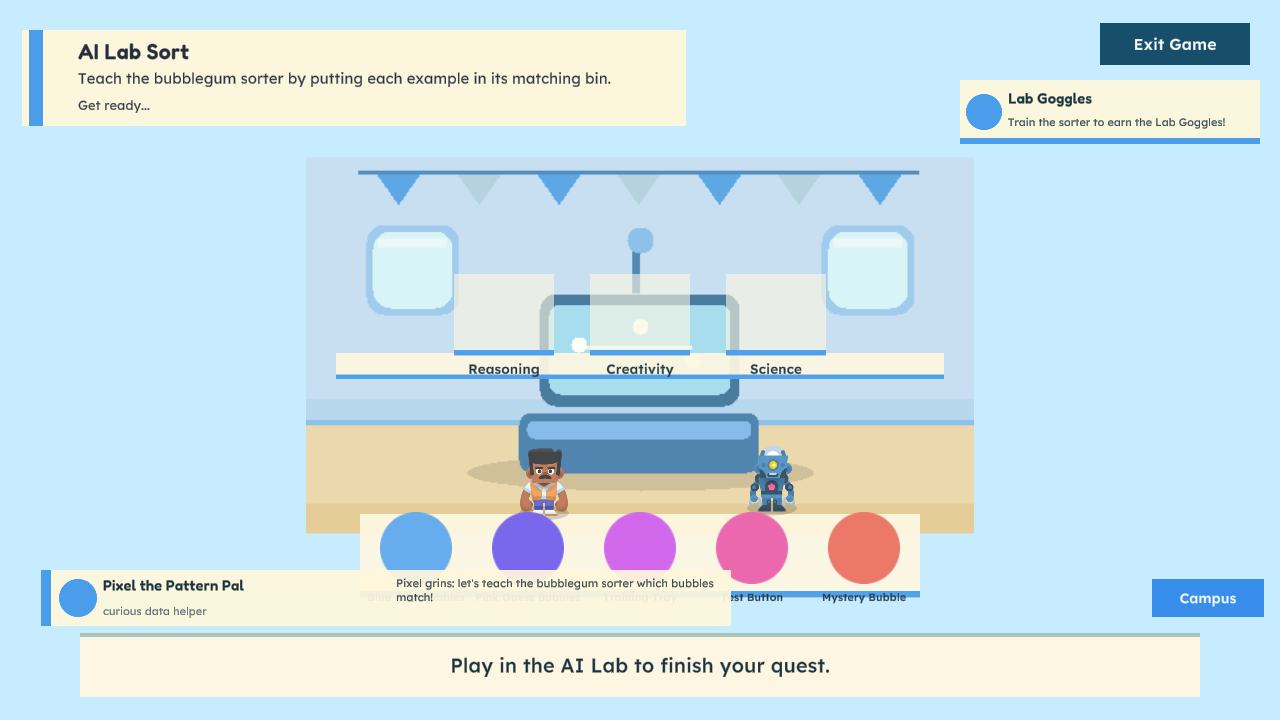
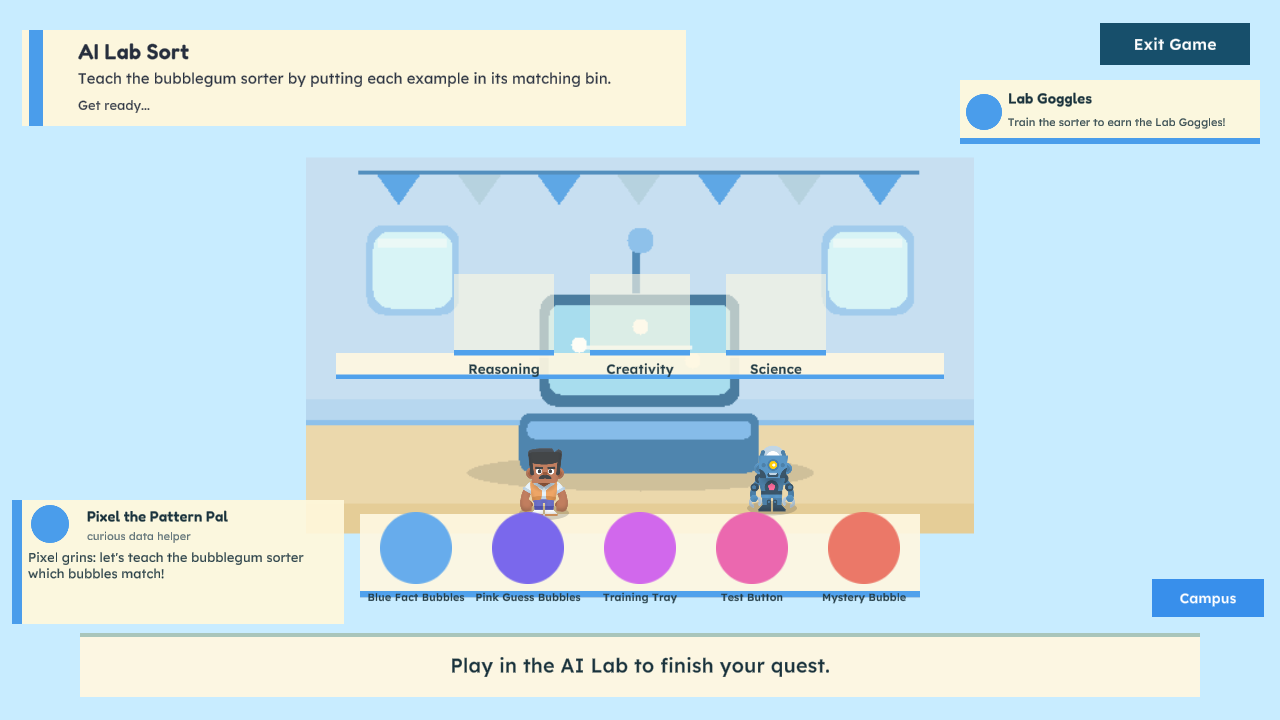
@ fix(stations): compact guide card (no tray-label overlap) + 6 new station QA captures
- StationGuideView: rework the party-station guide from a wide bottom bar
  (whose live line/reaction text reached screen-center and overlapped the
  world-space tray-object labels) into a compact bottom-left card with the
  line + reaction stacked left-aligned, kept left of the centered tray row.
- CareerQuestApp.ShowVisualQaState: add -cq-visual-state cases for the six
  remaining stations (vet, game-studio, weather, spaceport, newsroom,
  green-city) plus an accessory-fit seam (SeedAccessoryFitResults completes
  the party stations so the campus avatar wears the derived one-per-slot set).
- docs/qa: refresh the four converted station shots (overlap fixed), add the
  six new station shots, mark the overlap issue resolved, and document
  accessory fit as machine-verified (AvatarAccessoryLayerPlayModeTests).

Verified green after changes: EditMode 237/237, PlayMode 229/229.

@

Changed region(s): [[0.0, 0.6722, 0.5938, 0.8861]]

diff --git a/Assets/_CareerQuest/Scripts/UI/CareerQuestApp.cs b/Assets/_CareerQuest/Scripts/UI/CareerQuestApp.cs
@@ -500,6 +500,36 @@ namespace CareerQuest
                     BeginPlay();
                     ShowCommunityKitchen();
                     return true;
+                case "vet":
+                case "vet-clinic":
+                    BeginPlay();
+                    return ShowPartyStation(CareerQuestCatalog.VetClinicId);
+                case "game-studio":
+                    BeginPlay();
+                    return ShowPartyStation(CareerQuestCatalog.GameStudioId);
+                case "weather":
+                case "weather-lab":
+                    BeginPlay();
+                    return ShowPartyStation(CareerQuestCatalog.WeatherLabId);
+                case "spaceport":
+                    BeginPlay();
+                    return ShowPartyStation(CareerQuestCatalog.SpaceportId);
+                case "newsroom":
+                    BeginPlay();
+                    return ShowPartyStation(CareerQuestCatalog.NewsroomId);
+                case "green-city":
+                    BeginPlay();
+                    return ShowPartyStation(CareerQuestCatalog.GreenCityId);
+                case "accessory-fit":
+                    // Complete the party stations (their results carry the
+                    // station accessories AccessoryRewardConfig maps — unlike the
+                    // showcase core-room seed, which earns none) and stay on
+                    // campus: the campus player avatar is the accessory-bearing
+                    // AvatarRuntimeView (the mid-play station hero is a plain
+                    // figure), so it wears the derived one-per-slot set here.
+                    BeginPlay();
+                    SeedAccessoryFitResults(null);
+                    return true;
                 case "gallery":
                     BeginPlay();
                     ShowGallery();
@@ -1469,6 +1499,33 @@ namespace CareerQuest
                     result.TimeRemaining,
                     result.Accuracy,
                     result.Summary));
+            }
+        }
+
+        /// <summary>
+        /// QA-only seed for the accessory-fit visual state: completes the party
+        /// stations (pass a station id to skip one, or null to complete all), so
+        /// AccessoryResolver derives the one-per-slot set the campus avatar
+        /// renders. Mirrors the DemoDebugOverlay proof seam; session-only and
+        /// presentation-only (KTD8/KTD12).
+        /// </summary>
+        private void SeedAccessoryFitResults(string exceptStationId)
+        {
+            foreach (var stationId in CareerQuestCatalog.PartyStationIds)
+            {
+                if (stationId == exceptStationId)
+                {
+                    continue;
+                }
+
+                var definition = PartyStationDefinitions.GetById(stationId);
+                _session.RecordResult(PartyStationController.BuildResult(
+                    definition,
+                    definition.DefaultSeed,
+                    ResultSource.Solo,
+                    complete: true,
+                    wrongAttempts: 0,
+                    playElapsedSeconds: 12f));
             }
         }
 

diff --git a/Assets/_CareerQuest/Scripts/Activities/PartyStations/StationGuideView.cs b/Assets/_CareerQuest/Scripts/Activities/PartyStations/StationGuideView.cs
@@ -52,25 +52,32 @@ namespace CareerQuest
                 return null;
             }
 
+            // Compact bottom-left card: portrait/name/voice on top, the live
+            // line + reaction stacked left-aligned beneath. The old wide single
+            // row pushed the line/reaction text into screen-center, where it
+            // overlapped the world-space tray-object labels; keeping the whole
+            // card narrow and left of the centered tray row removes that overlap.
             var panel = UiBuilder.Panel(parent, PanelName, PaperColor);
-            UiBuilder.Place(panel, -254f, -238f, 690f, 56f);
-            UiBuilder.Shape(panel, "StationGuideStripe", accent, -340f, 0f, 10f, 56f);
-            UiBuilder.Circle(panel, "StationGuidePortrait", accent, -308f, 0f, 38f, 38f);
+            UiBuilder.Place(panel, -462f, -202f, 332f, 124f);
+            UiBuilder.Shape(panel, "StationGuideStripe", accent, -161f, 0f, 10f, 124f);
+            UiBuilder.Circle(panel, "StationGuidePortrait", accent, -128f, 38f, 38f, 38f);
 
             var name = UiBuilder.Text(panel, NameTextName, definition.GuideName, 15, TextAnchor.MiddleLeft, InkColor, TypeRole.Display, TypeWeight.SemiBold);
-            UiBuilder.Place(name.rectTransform, -158f, 13f, 250f, 22f);
+            UiBuilder.Place(name.rectTransform, 14f, 46f, 210f, 22f);
 
             var voice = UiBuilder.Text(panel, VoiceTextName, definition.GuideVoice, 11, TextAnchor.MiddleLeft, SoftInkColor);
-            UiBuilder.Place(voice.rectTransform, -158f, -13f, 250f, 18f);
+            UiBuilder.Place(voice.rectTransform, 14f, 26f, 210f, 16f);
 
-            var line = UiBuilder.Text(panel, LineTextName, seed.IntroLine, 14, TextAnchor.MiddleLeft, InkColor);
-            UiBuilder.Place(line.rectTransform, 175f, 8f, 330f, 28f);
+            var line = UiBuilder.Text(panel, LineTextName, seed.IntroLine, 13, TextAnchor.UpperLeft, InkColor);
+            UiBuilder.Place(line.rectTransform, 0f, -10f, 300f, 46f);
+            line.textWrappingMode = TextWrappingModes.Normal;
             line.enableAutoSizing = true;
             line.fontSizeMin = 10;
-            line.fontSizeMax = 14;
+            line.fontSizeMax = 13;
 
-            var reaction = UiBuilder.Text(panel, ReactionTextName, seed.NpcReaction, 11, TextAnchor.MiddleLeft, SoftInkColor);
-            UiBuilder.Place(reaction.rectTransform, 175f, -16f, 330f, 18f);
+            var reaction = UiBuilder.Text(panel, ReactionTextName, seed.NpcReaction, 11, TextAnchor.UpperLeft, SoftInkColor);
+            UiBuilder.Place(reaction.rectTransform, 0f, -46f, 300f, 26f);
+            reaction.textWrappingMode = TextWrappingModes.Normal;
             reaction.gameObject.SetActive(false);
 
             return new StationGuideView(seed, line, reaction);

diff --git a/docs/qa/2026-06-13-party-campus-pack-proof.md b/docs/qa/2026-06-13-party-campus-pack-proof.md
@@ -105,6 +105,12 @@ campus shot shows the merged 10-station map, not the pre-merge campus.
 | `ai-lab.png` | AI Lab Sort (party station) | Guide *Pixel the Pattern Pal*, intro "Teach the bubblegum sorter by putting each example in its matching bin.", **Lab Goggles** reward, SortToBin bins (Reasoning, Creativity, Science), example tray. |
 | `music.png` | Music Remix (party station) | Guide *DJ Tempo*, intro "Layer the storm sounds into a parade beat and keep the tempo steady.", **Microphone** reward, Mix Spot + Tempo Dial (compose/meter), sample tray. |
 | `kitchen.png` | Community Kitchen Match (party station) | Guide *Chef Sunny*, intro "Solve the soup clues and serve a bowl every guest can enjoy.", **Chef Hat** reward, Match Tray + serving bowl (PickMatchingTrio + serve), ingredient tray. |
+| `vet.png` | Vet Clinic Diagnose (party station) | Guide *Nurse Nova* ("calm care guide"), intro "Read the care clues and pick a gentle plan for the hiccuping dragon.", **Care Cape** reward, MatchAndCare (Gentle Care Tool / Care Spot), tray (Care Clue Cards, Water Bowl, Comfort Blanket, Cozy Temp Sticker, Gentle Care Tool), pretend-play-safe NPC line. |
+| `game-studio.png` | Game Studio Compose (party station) | Guide *Captain Loop* ("playful design lead"), intro "Pick a goal, an obstacle, and a rule that fit, then run the playtest.", **Sketchbook** reward, Mix Spot (compose), tray (Hero Token, Obstacle Tile, Rule Card, Power-Up Sketch, Playtest Button). |
+| `weather.png` | Weather Lab Rescue (party station) | Guide *Radar Rae* ("alert safety planner"), intro "Order the forecast clues, then set up shelter before the parade starts.", **Weather Goggles** reward, Next Step (sequence), tray (Forecast Tiles, Umbrella Sign, Route Cones, Calm Radio, Shelter Flag), safe weather/emergency copy. |
+| `spaceport.png` | Spaceport Pilot (party station) | Guide *Commander Orbit* ("focused mission guide"), intro "Sequence launch, orbit, delivery, and landing to fly the snack probe.", **Mission Patch** reward, Next Step (SequenceCards), tray (Launch Checklist, Fuel Bead, Snack Crate, Orbit Arrow, Landing Pad). |
+| `newsroom.png` | Newsroom Story Sprint (party station) | Guide *Scoop Rivera* ("fact-checking reporter"), intro "Match the checked facts to who, what, and where, then stamp the headline.", **Press Badge** reward, Mix Spot (compose/match), tray (Who Card, What Photo, Where Map, Quote Recorder, Fact-Check Stamp), source-safe copy. |
+| `green-city.png` | Green City Builder (party station) | Guide *Grid Green* ("practical systems planner"), intro "Place four city pieces while keeping both meters happy and green.", **Green Hardhat** reward, **BalanceMeters** — Budget Meter + Happy Meter tap-dials with needles + Build Spot, four-piece tray (Solar Tile, Garden Block, Bike Path, Water Wheel). |
 | `design-build.png` | Design Build (core room) | "Future City Workshop" — drag each city piece onto its matching lot, 0/5 placed, five pastel slot pads, city-piece tray, builder NPC. |
 | `health.png` | Health Hero (core room) | "Health Hero Clinic" — bring symptom clipboard to the patient first, 0/3 care steps, patient on exam bed, clipboard/thermometer/care-plan tools. |
 | `logic.png` | Logic Court (core room) | "Logic Court" — review the case file on the podium then sort each evidence card, 0/3 sorted, two sort zones, evidence tray, judge NPC. |
@@ -112,21 +118,37 @@ campus shot shows the merged 10-station map, not the pre-merge campus.
 | `reveal-locked.png` | Reveal locked branch | "Career Reveal Stage", three dark "?" slots, "0/3 quest badges collected" bar, "Complete 3 unique quest badges… 3 games to go", **no Skip control** — matches the locked-branch contract. |
 | `reveal-unlocked.png` | Reveal resolved | "REVEAL UNLOCKED! **Future Maker** — Future Tech + Design + Build strengths · You might like: AI Engineer · Architect · Lawyer · Robotics Engineer · City Planner · Very strong match · Hybrid spark: Courtroom Inventor · 'a strength clue from your quest badges — not a life assignment.'" — `RevealSynthesis` family + superpower + paths + hybrid/combo + non-deterministic copy (U7). |
 
-The six stations without a dedicated visual-state case (Vet Clinic, Game Studio,
-Weather Lab, Spaceport, Newsroom, Green City) are visible as entrances in
-`campus.png` and are machine-verified playable by `StationPackSmokePlayModeTests`
-and `Wave2StationPackPlayModeTests`.
+All 10 party stations now have a dedicated `-cq-visual-state` case and a captured
+screenshot, each showing full station identity (guide + intro + reward preview +
+toy pattern + task tray + NPC reaction). The seven supported toy patterns are all
+represented across the set: DragToSlot (robotics), SortToBin (ai-lab),
+ComposeSet/meter (music, game-studio, newsroom), PickMatchingTrio (kitchen),
+MatchAndCare (vet), SequenceCards (weather, spaceport), and BalanceMeters
+(green-city).
+
+### Accessory fit
+
+Per-slot accessory fit (anchor, sorting, facing-flip, no float/clip, one-visible-
+per-slot, ceremony gating) is rigorously machine-verified by
+`AvatarAccessoryLayerPlayModeTests` + `AccessoryResolverTests`. The runtime
+accessory layer binds to the campus player avatar via
+`PlayerAvatarController` → `AvatarRuntimeView.BindAccessories(session)`, and the
+`accessory-fit` QA visual-state seeds the full earned set onto it for manual /
+zoomed inspection. A *static* 1280×720 frame is not included: accessories render
+only on the runtime `AvatarRuntimeView` (campus avatar / station-end spotlight /
+passport / reveal), and at campus scale individual accessories are too small to
+read in a still — a legible large-avatar still would need a dedicated preview
+surface, which is out of this pass.
 
 ## Known issues (minor, non-blocking)
 
-1. **Guide speech-band overlaps tray labels** — in the party-station screens
-   (`robotics`, `ai-lab`, `music`, `kitchen`) the bottom-left guide-reaction
-   band sits over the lower edge of the rightmost task-tray labels (e.g.
-   "Route Cards", "Rescue Flag", "Serving Bowl", "Kindness Swap" are partly
-   occluded). Labels remain mostly legible and the tray objects are clear;
-   this is a HUD layering/placement nit, not a play blocker. Candidate for a
-   follow-up polish pass (raise tray labels above the band, mirroring the
-   wow-pass fix for optional-room action buttons).
+1. ~~**Guide speech-band overlaps tray labels**~~ — **RESOLVED** (this pass): the
+   party-station guide was reworked from a wide bottom bar (whose live line/
+   reaction text reached screen-center) into a compact bottom-left card with the
+   line + reaction stacked left-aligned, so the whole card stays left of the
+   centered tray-label row. Verified in the refreshed `robotics`/`ai-lab`/`music`/
+   `kitchen` captures (tray labels fully visible) and across all six new station
+   captures. `StationGuideView` text/lifecycle tests remain green.
 
 ## Privacy posture (KTD12)
 
